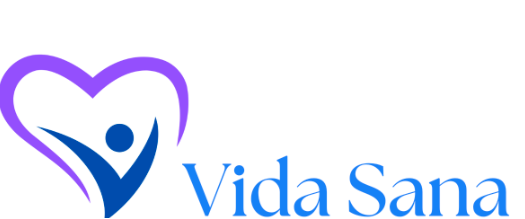
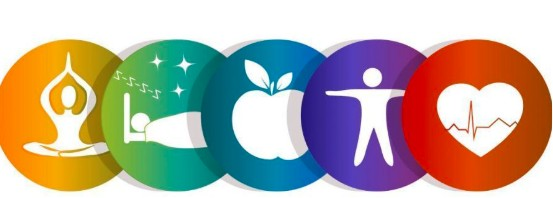
feat: agrega imagen principal hero

diff --git a/css/styles.css b/css/styles.css
@@ -96,8 +96,18 @@ button{
     margin-top:15px;
     border-radius:5px;
 }
+
 #inicio{
-    padding:80px 40px;
+    padding:40px 40px 80px 40px;
+}
+
+#inicio img{
+    width:200px;
+    max-width:100%;
+    display:block;
+    margin:0 0 10px auto;
+    position:relative;
+    right:-20px;
 }
 
 #inicio h1{

diff --git a/index.html b/index.html
@@ -31,6 +31,7 @@
 <main>
 
     <section id="inicio">
+        <img src="img/hero.jpg" alt="Bienestar y salud integral">
 
         <h1>Transforma tu bienestar y mejora tu calidad de vida</h1>
 
@@ -43,6 +44,7 @@
         <a href="#contacto" class="btn">
             Solicitar Información
         </a>
+        
 
     </section>
 <section id="beneficios">